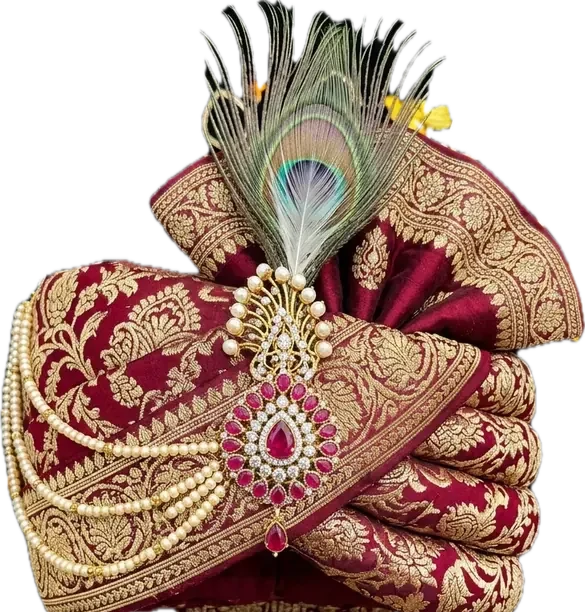
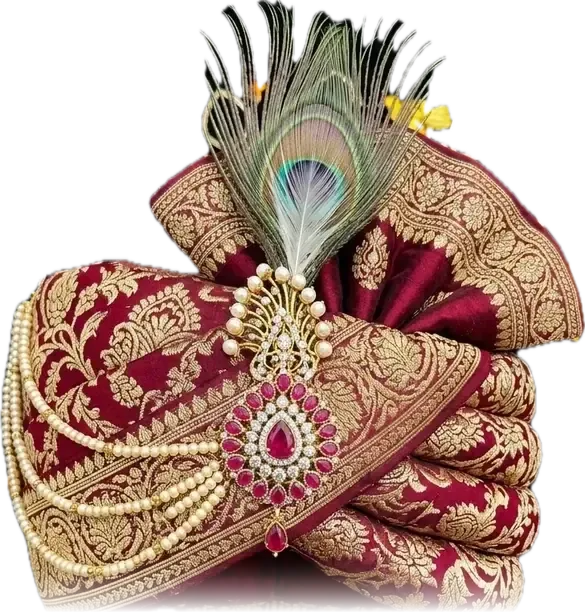
fix: two faults the try-on page only showed under test
**A findable face was being missed.** A photograph is read for a face exactly
once, and that one attempt could happen before the picture had decoded — so
the safa sat waiting to be dragged on by hand, for a face the tracker would
have found perfectly well. It now waits for the picture to be there.

**Two cut-outs ended in a straight line.** The Jodhpuri and the Banarasi had
been cropped through the cloth, so the safa stopped dead in a hard edge that
landed across the wearer's forehead. The last tenth of each now fades out, so
the cloth ends rather than stops.

Found by working through the page as a customer would: choose a photograph,
switch styles, drag it off the head, put it back, take the picture.

Changed region(s): [[0.0615, 0.9314, 0.8923, 1.0]]

diff --git a/src/components/landing/SafaFittingStage.tsx b/src/components/landing/SafaFittingStage.tsx
@@ -127,6 +127,13 @@ export function SafaFittingStage({
   const [trackerLoading, setTrackerLoading] = useState(false);
   /** The safa drawn as a curved surface that turns with the head (src/lib/safa-ar.ts). */
   const [arReady, setArReady] = useState(false);
+  /**
+   * Bumped when a chosen photograph has actually decoded. A photograph is
+   * read for a face exactly once, so that one attempt has to come after the
+   * picture exists — otherwise the safa waits to be dragged on by hand for a
+   * face that was perfectly findable.
+   */
+  const [photoLoadedAt, setPhotoLoadedAt] = useState(0);
   /** Height ÷ width of the chosen safa — it decides how high above the brow it sits. */
   const safaAspectRef = useRef(1.2);
   const smoothedRef = useRef<StageFit | null>(null);
@@ -626,6 +633,7 @@ export function SafaFittingStage({
 
       if (source === 'photo') {
         const image = photoElRef.current;
+        if (!image?.naturalWidth && !image?.complete) return;
         if (image) {
           if (!image.complete) await image.decode().catch(() => {});
           const reading = await tracker.readImage(image);
@@ -655,7 +663,7 @@ export function SafaFittingStage({
       stopped = true;
       cancelAnimationFrame(frame);
     };
-  }, [fittingReady, autoFit, source, photoUrl, selectedSafa.id, drawAr]);
+  }, [fittingReady, autoFit, source, photoUrl, photoLoadedAt, selectedSafa.id, drawAr]);
   /** Artists are sent out for baraat safas; a groom's own safa is bought online. */
   const tiedByArtist = selectedSafa.bookingStyle === 'Barati Safa';
 
@@ -707,6 +715,7 @@ export function SafaFittingStage({
                 ref={photoElRef}
                 src={photoUrl}
                 alt="Your photo"
+                onLoad={() => setPhotoLoadedAt(Date.now())}
                 onError={() => {
                   setPhotoUrl((previous) => {
                     if (previous) URL.revokeObjectURL(previous);
